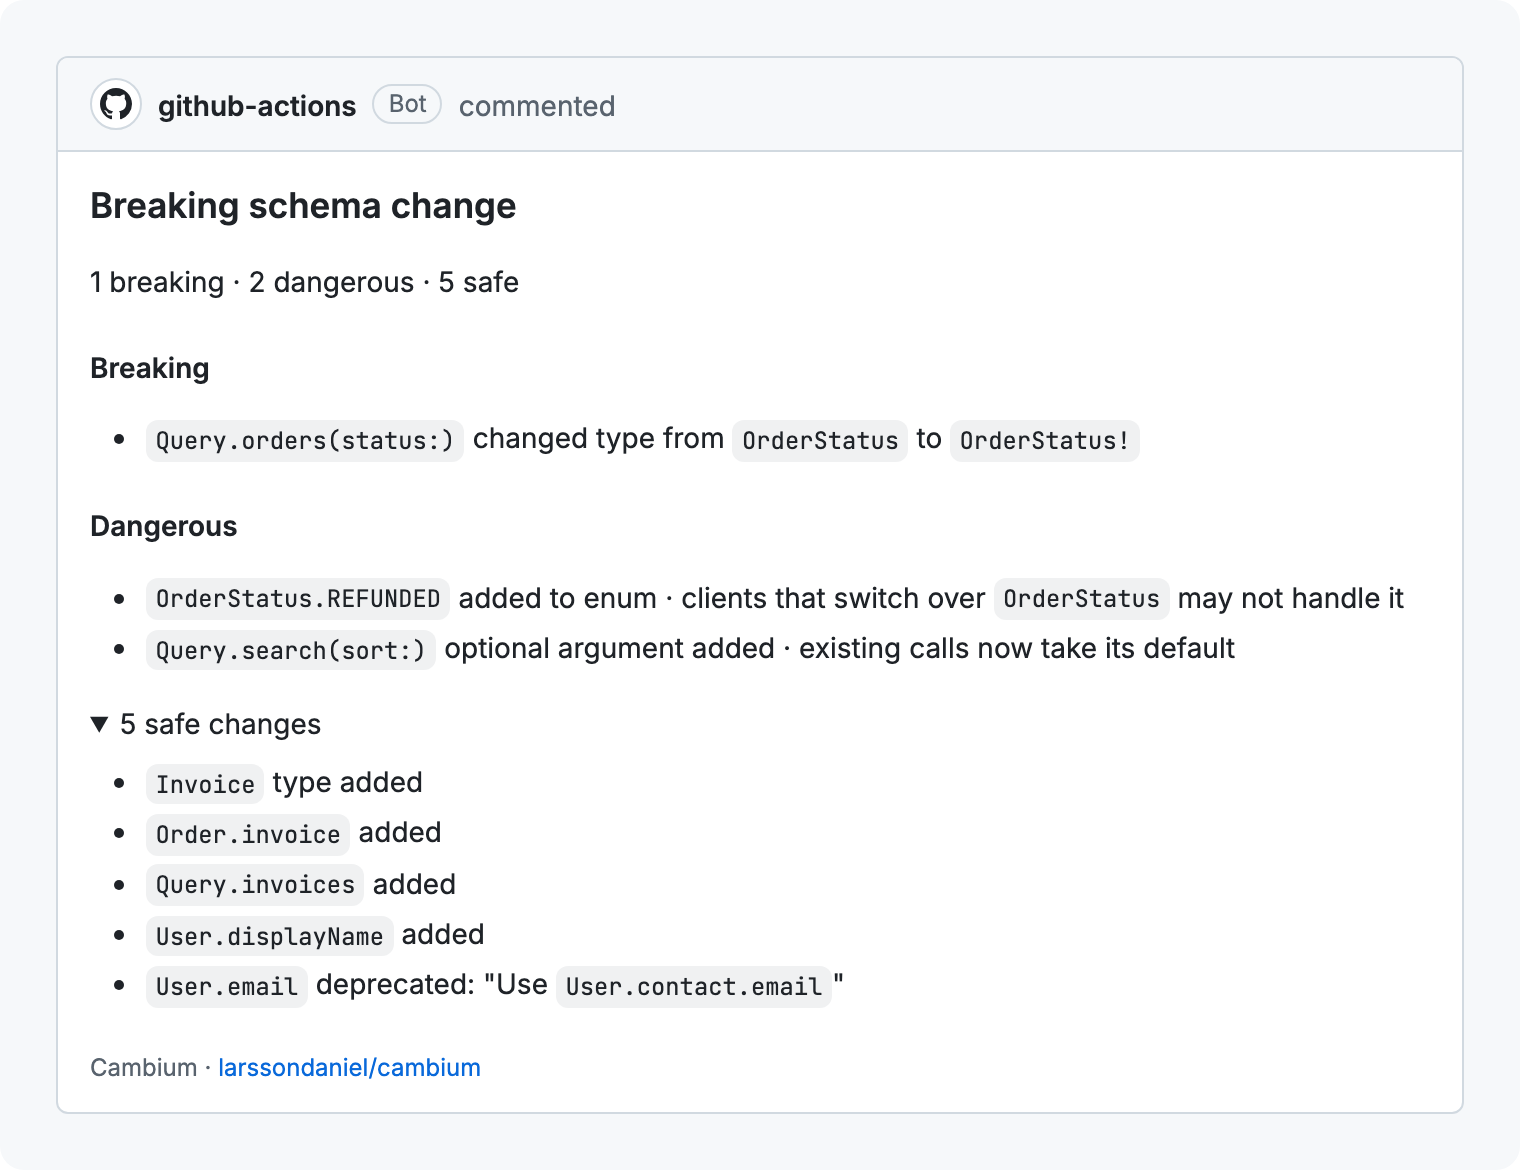
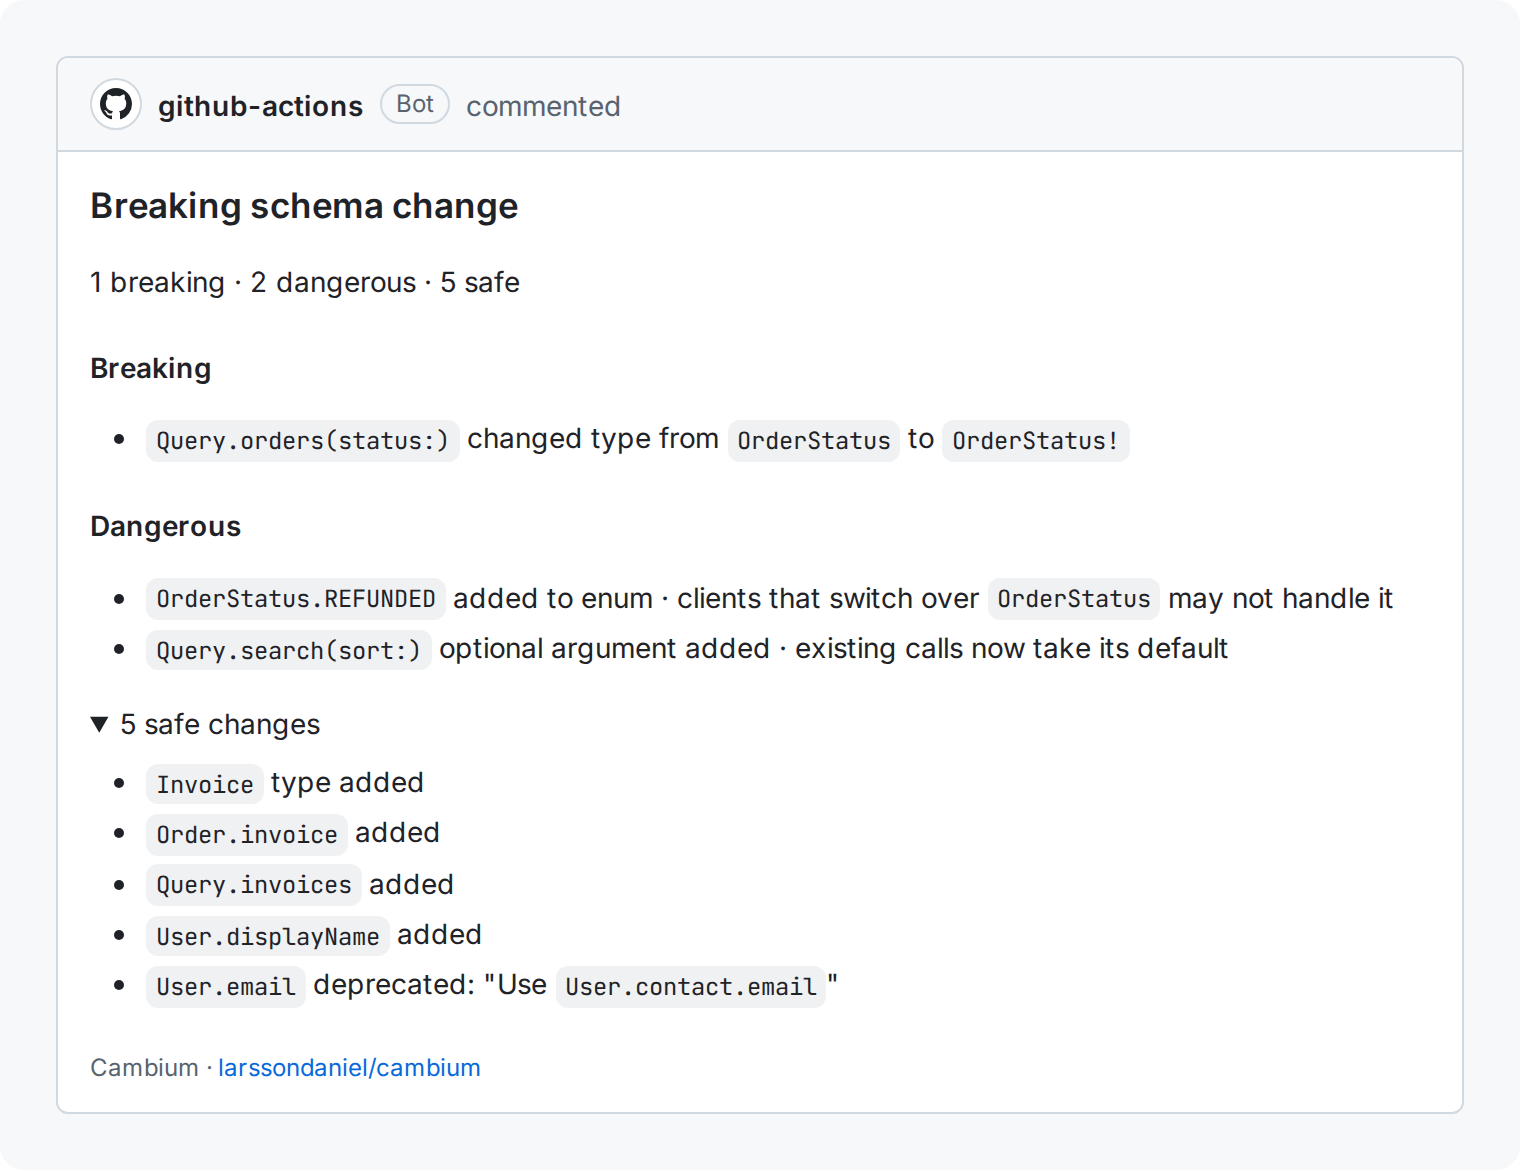
Commit the Linux-rendered screenshots and keep the theme off the class attribute
The theme now travels on a data-theme attribute, since htmlhint rejects a
template placeholder inside class. The images are the Check screenshots
workflow's own output, which differs from a macOS render only in text
rasterisation.

diff --git a/scripts/screenshot/stage.css b/scripts/screenshot/stage.css
@@ -19,11 +19,11 @@ body {
   border-radius: 12px;
 }
 
-.stage.light {
+.stage[data-theme='light'] {
   background: #f6f8fa;
 }
 
-.stage.dark {
+.stage[data-theme='dark'] {
   background: #010409;
 }
 
@@ -119,50 +119,50 @@ body {
   color: #59636e;
 }
 
-.dark .card {
+[data-theme='dark'] .card {
   background: #0d1117;
   border-color: #3d444d;
 }
 
-.dark .card .head {
+[data-theme='dark'] .card .head {
   background: #151b23;
   border-color: #3d444d;
   color: #9198a1;
 }
 
-.dark .card .head b {
+[data-theme='dark'] .card .head b {
   color: #f0f6fc;
 }
 
-.dark .card .head .bot {
+[data-theme='dark'] .card .head .bot {
   border-color: #3d444d;
   color: #9198a1;
 }
 
-.dark .card .head .avatar {
+[data-theme='dark'] .card .head .avatar {
   background: #fff;
   border-color: #3d444d;
 }
 
-.dark .markdown-body {
+[data-theme='dark'] .markdown-body {
   color: #f0f6fc;
 }
 
-.dark .markdown-body h3,
-.dark .markdown-body h4,
-.dark .markdown-body strong {
+[data-theme='dark'] .markdown-body h3,
+[data-theme='dark'] .markdown-body h4,
+[data-theme='dark'] .markdown-body strong {
   color: #f0f6fc;
 }
 
-.dark .markdown-body code {
+[data-theme='dark'] .markdown-body code {
   background: #3d444d66;
   color: #f0f6fc;
 }
 
-.dark .markdown-body a {
+[data-theme='dark'] .markdown-body a {
   color: #4493f8;
 }
 
-.dark .markdown-body sub {
+[data-theme='dark'] .markdown-body sub {
   color: #9198a1;
 }

diff --git a/scripts/screenshot/page.html b/scripts/screenshot/page.html
@@ -14,7 +14,7 @@
     </style>
   </head>
   <body>
-    <div class="stage {{theme}}">
+    <div class="stage" data-theme="{{theme}}">
       <div class="card">
         <div class="head">
           <span class="avatar">
